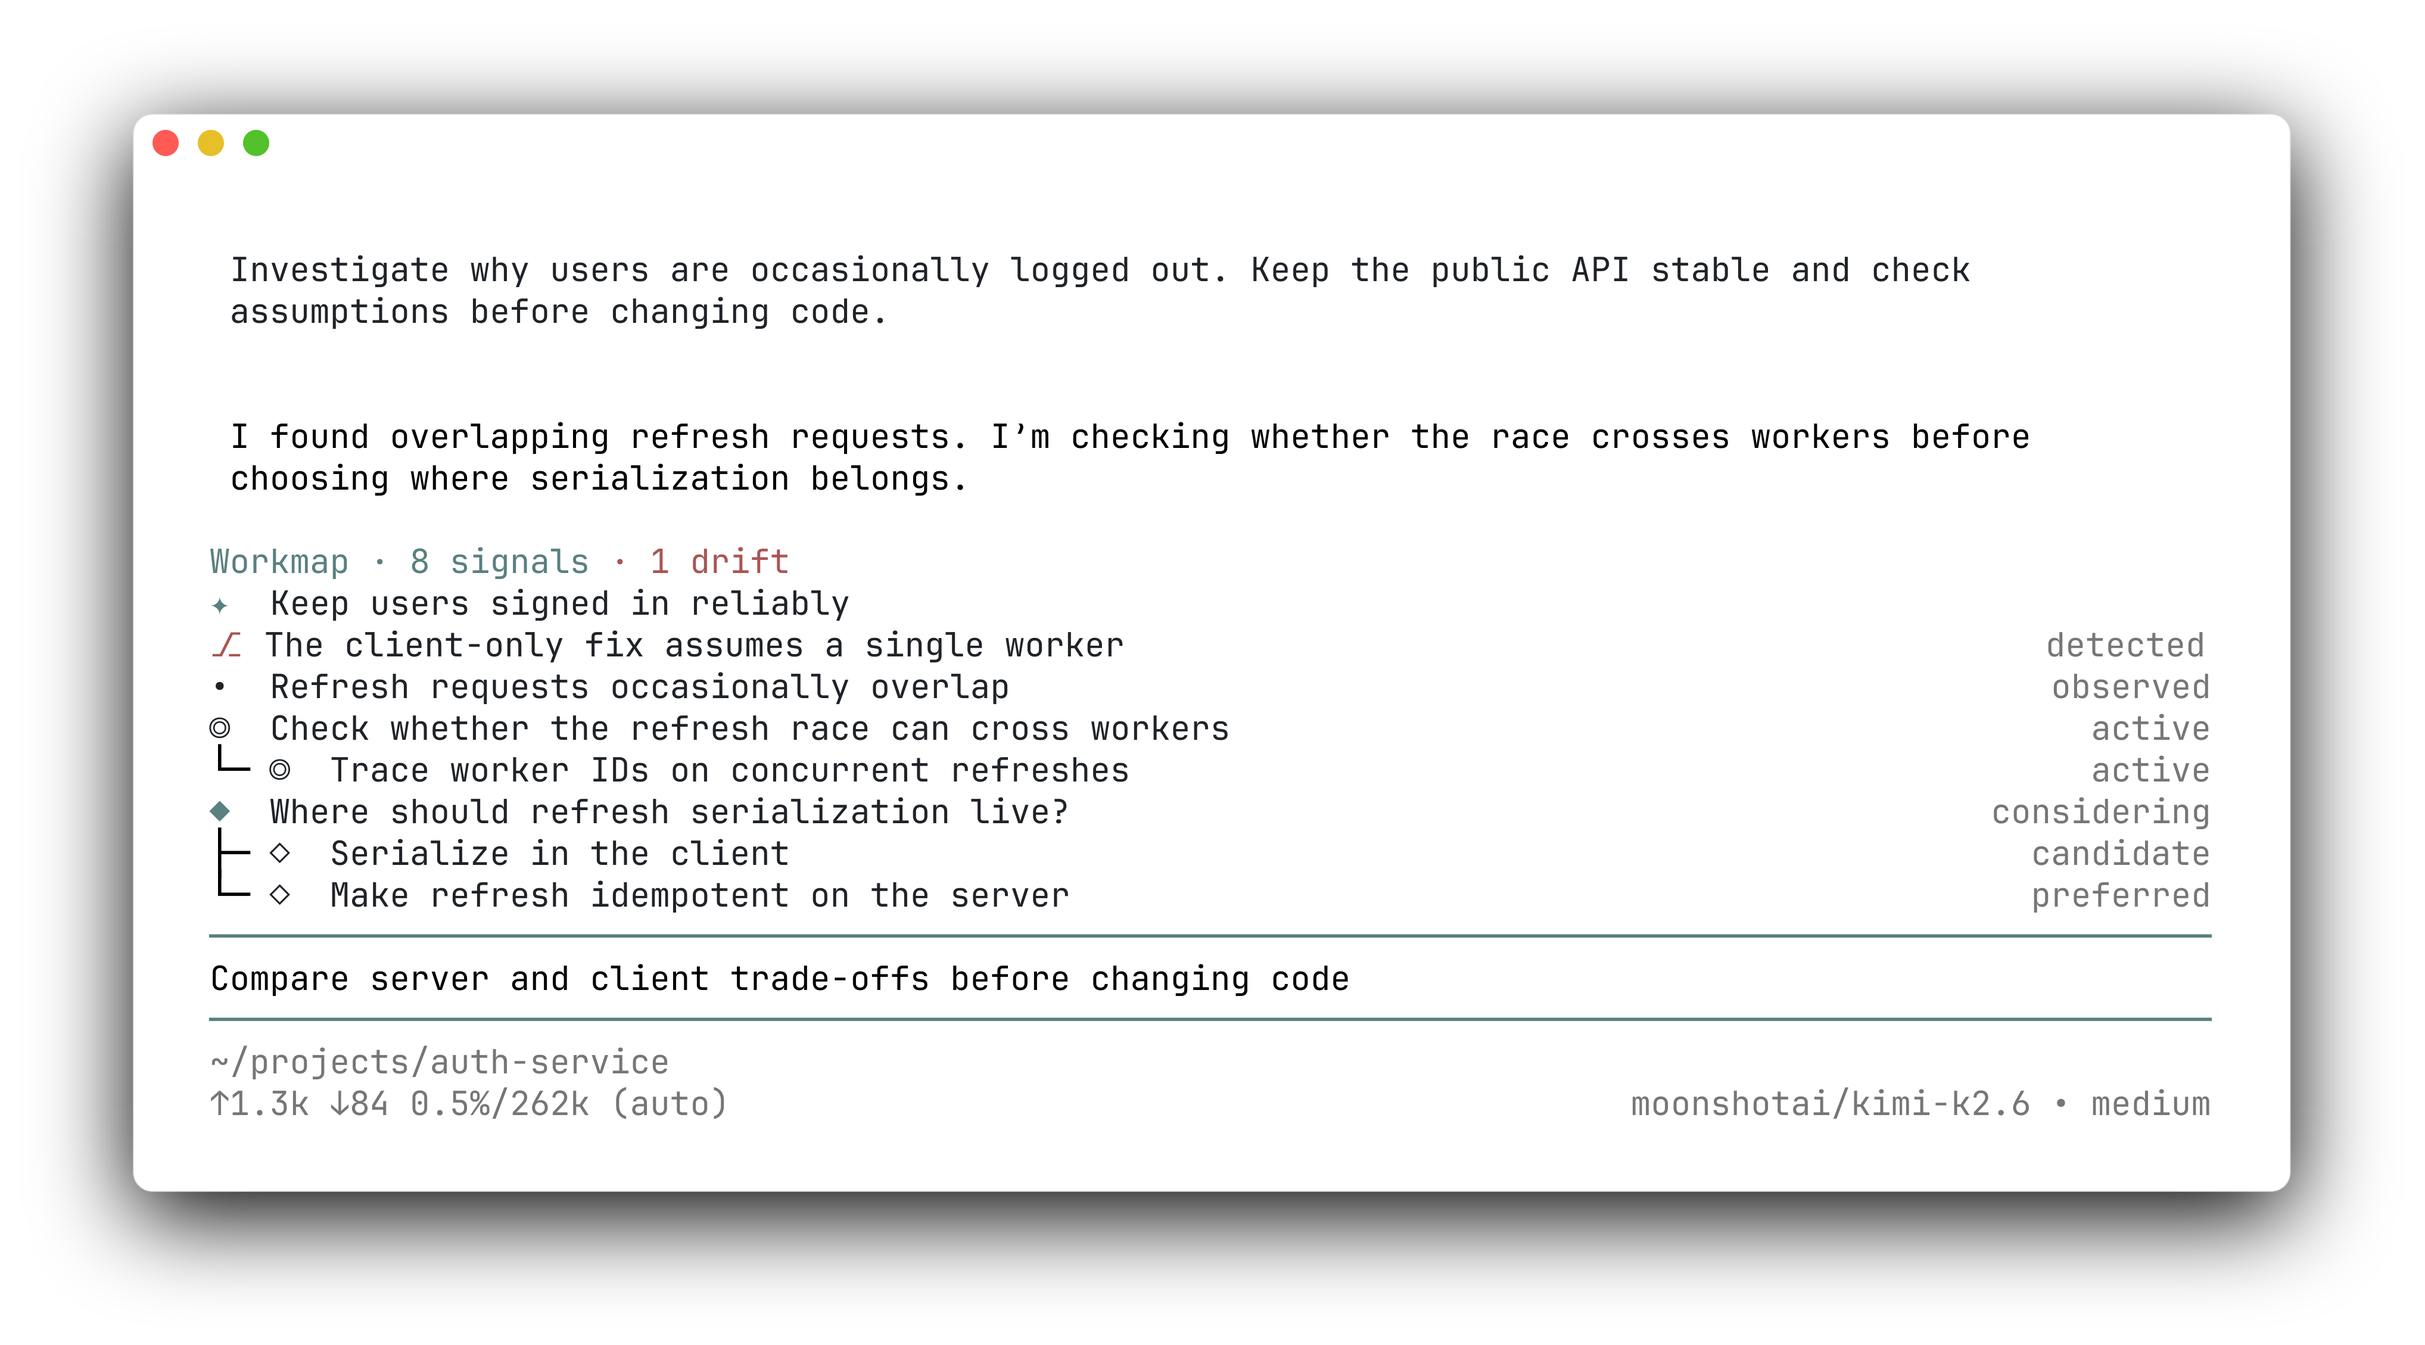
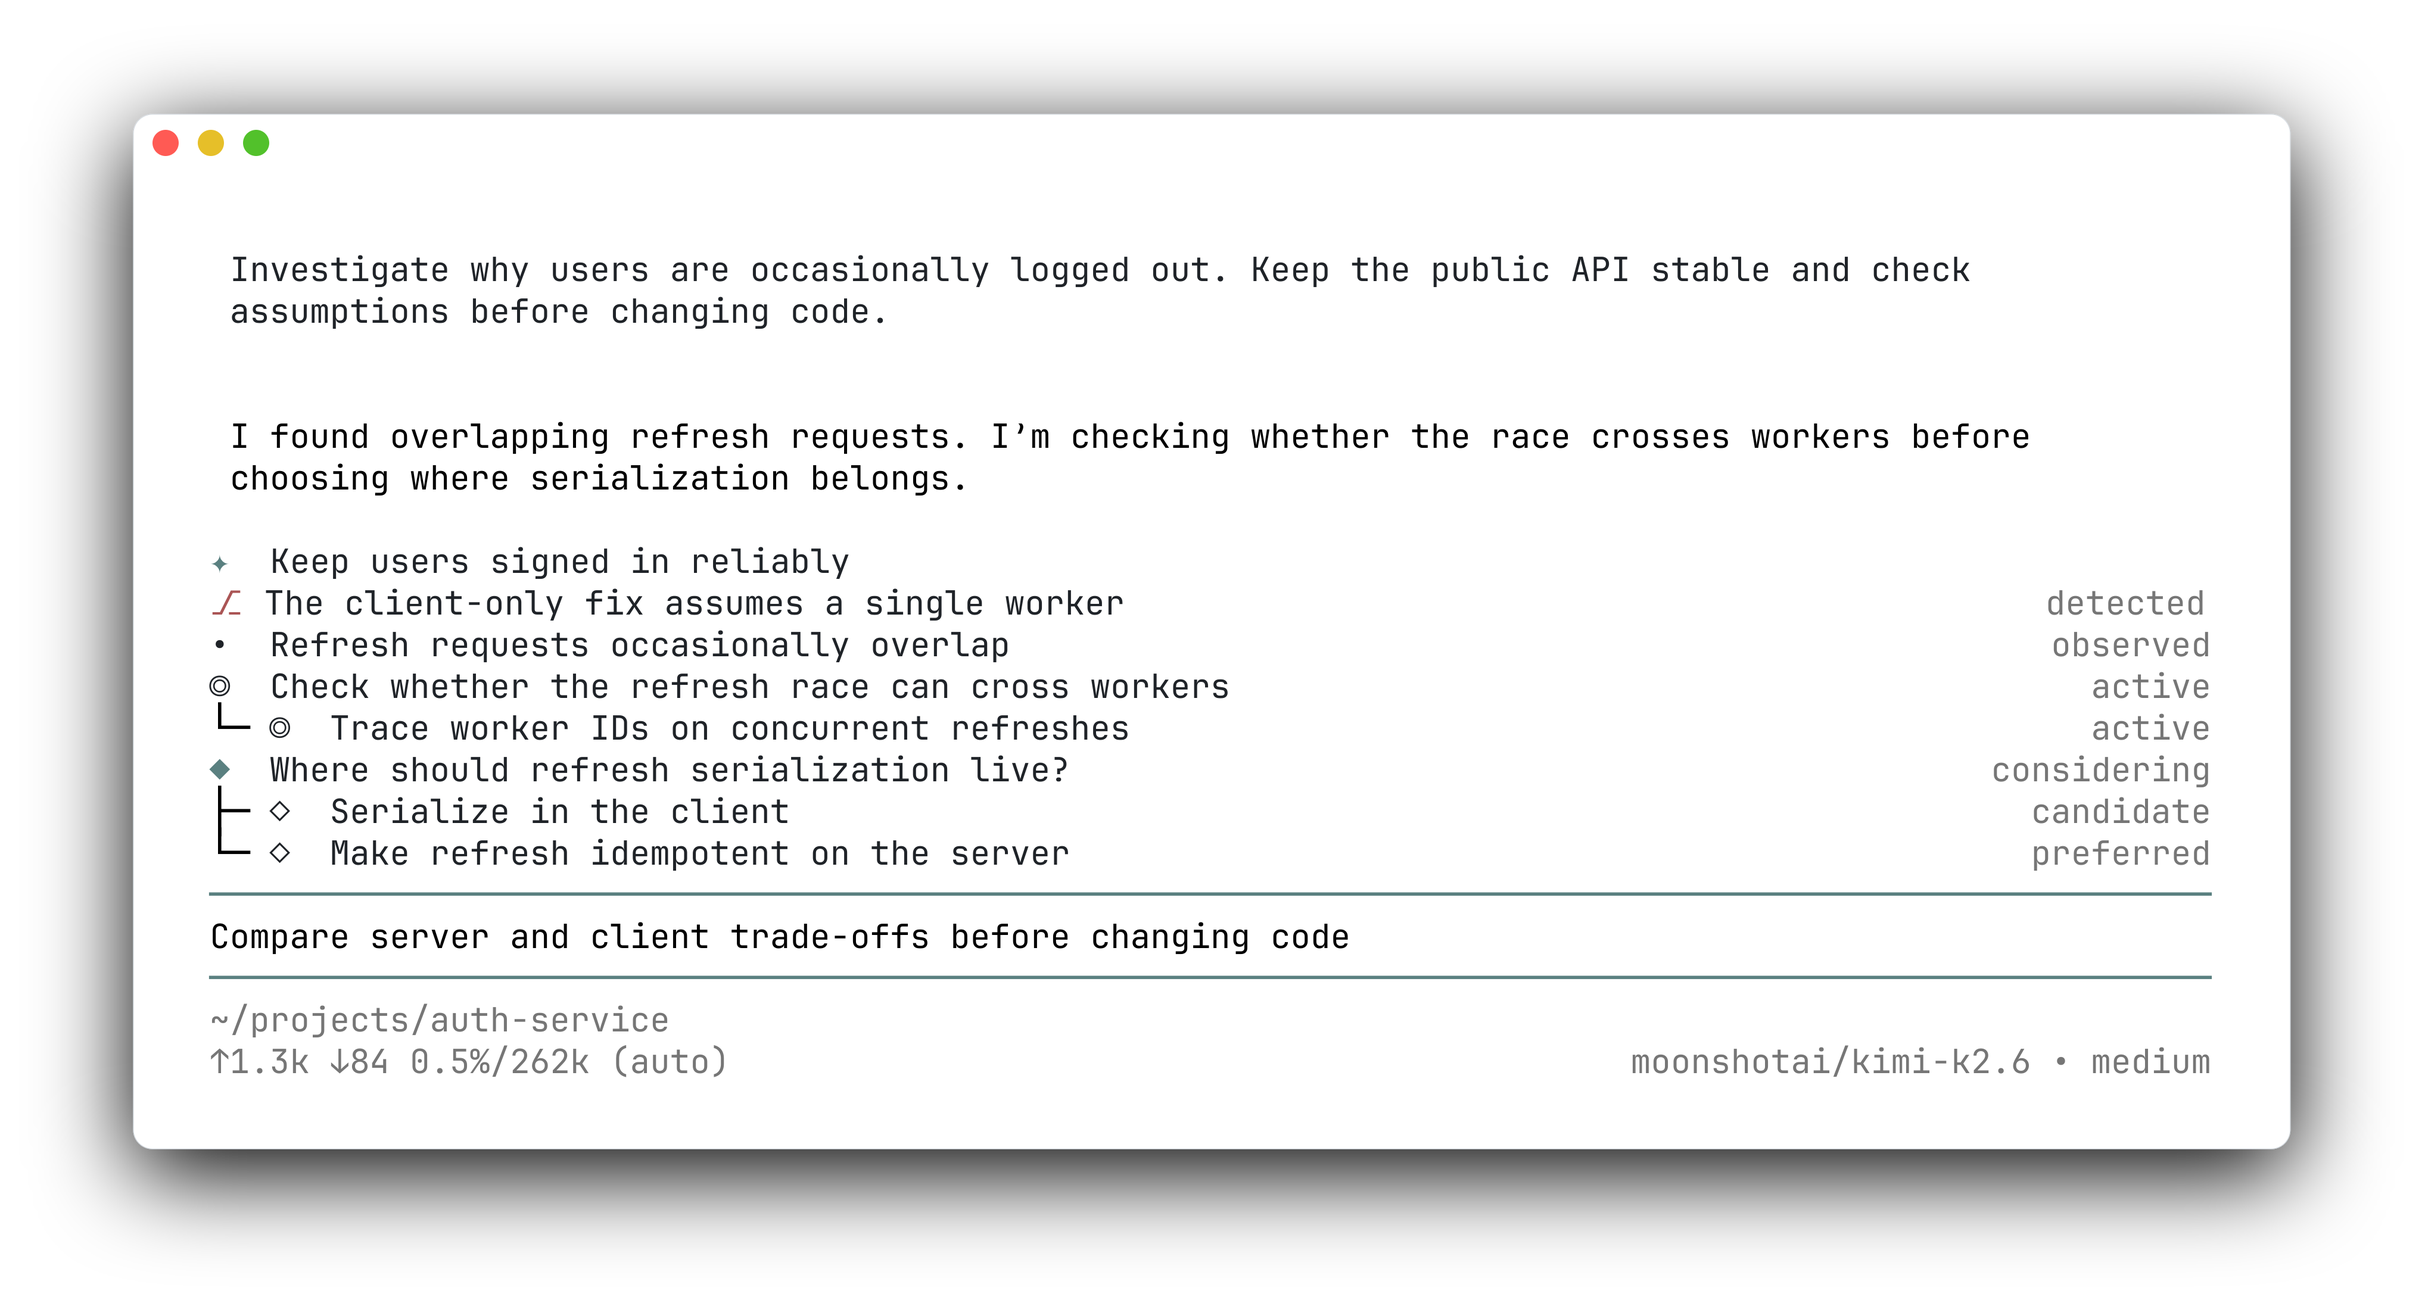
Record the activity, terminology and option decisions (ADR 0018-0020)
Syncs README, docs/ui.md, docs/concept.md, docs/open-questions.md and AGENTS.md, and adds the pre-change corpus baseline (restate density, rejected writes, label drift) as the comparison point for the new guidelines.

diff --git a/AGENTS.md b/AGENTS.md
@@ -41,15 +41,15 @@ Keep session semantics in `src/state.ts`, presentation in `src/widget.ts`, and P
 - **Workmap** — The Agent's concise, user-visible declaration of its current operational mental model for one Pi session.
 - **Mental model** — Each party's internal representation of the work. The gap between the user's and the Agent's is the problem; mental models are not directly shareable.
 - **Shared working model** — Provisional common ground created when the user can inspect and correct the Agent's declared workmap.
-- **Signal** — One typed workmap node that materially helps the user understand or correct the Agent's direction.
+- **Signal** — One typed workmap node that materially helps the user understand or correct the Agent's direction; the goal is separate from the signals.
 - **Goal** — The Agent's current reading of what the user ultimately wants from this session; the anchor every other signal is measured against. A corrected goal is a reward, so declare it early even at low confidence. It names the destination, never the route (routes are Decisions). Written through `set_goal` and stable across `restate` declarations. Update it only when the reading of the user's intent changes or deepens — not when the work phase shifts; phase changes surface through active Tasks. `long-term` optionally marks a standing project-level direction.
-- **Understanding** — A fact, synthesis, inference, or hypothesis the Agent currently uses. Mark unverified premises explicitly as `assumed` rather than stating them as fact.
+- **Understanding** — A fact, synthesis, inference, or hypothesis the Agent currently uses. An unlabeled understanding is the Agent's current, unverified reading; `confirmed` marks what evidence has settled and `ruled out` what evidence has killed, so a dead suspicion stays visible instead of disappearing.
 - **Decision** — A choice being deliberated or a commitment already made. Title it as a question while deliberating; once decided, append the conclusion to the title ("…? → conclusion") rather than rewriting it.
-- **Option** — A considered alternative for a Decision. A tentative answer to an open question is an Understanding with label `assumed`, not an Option.
-- **Task** — An action the Agent declares it intends, is doing, or has done; a `done` title records side effects (what changed, what ran), serving as the map's recent behavior ledger. One level of children expresses supporting structure only, never execution tracking (dependencies, progress rollups, or completion archives). Factual questions get no node type: investigate directly, or ask the user in conversation when only they can answer.
+- **Option** — A considered alternative for a Decision. A tentative answer to an open question is an Understanding, not an Option. An option is only legal beneath its decision: the root schema rejects the type (ADR 0020).
+- **Task** — An action the Agent declares it intends or is doing. A finished action is dropped rather than archived; a side effect that still affects later judgment is rewritten as an Understanding. One level of children expresses supporting structure only, never execution tracking (dependencies, progress rollups, or completion archives). Factual questions get no node type: investigate directly, or ask the user in conversation when only they can answer.
 - **Drift** — A detected mismatch between the Agent's direction and user intent or the declared workmap; rendered directly below the Goal.
 
-Labels are type-scoped; the recommended vocabulary lives in `src/node-types.ts` (goal: unlabeled is the current focus, `long-term` optionally marks a standing direction; decision: considering/chosen; understanding: confirmed/assumed; task: pending/active/done). The map is capped at 10 signals including goal and children, with one level of children. Every write and restore validates the complete state; over-capacity updates are rejected whole (ADR 0017).
+Labels are type-scoped; the recommended vocabulary lives in `src/node-types.ts` (goal: unlabeled is the current focus, `long-term` optionally marks a standing direction; decision: considering/chosen; understanding: confirmed/ruled out; task: pending/active). The map is capped at 10 nodes including the goal and children, with one level of children. Every write and restore validates the complete state; over-capacity updates are rejected whole (ADR 0017), as is an option at the root (ADR 0020).
 
 ## Policies & Mandatory Rules
 

diff --git a/docs/adr/0018-activity-scoped-guidelines.md b/docs/adr/0018-activity-scoped-guidelines.md
@@ -1,0 +1,24 @@
+# ADR 0018: guidelines 按 activity 切分
+
+- Status: Accepted（修订 [ADR 0017](0017-set-goal-restate.md) 的 guidelines 分配与词表；取代 [ADR 0015](0015-full-rewrite-set-add-drift-two-layer.md) 的 decision 1 与 7）
+- Date: 2026-09-17
+
+## Context
+
+- **per-prompt MUST 只买到触碰频率。** v7 语料 325 次 `restate` 里工具结果报 no-change 的只有 2 次，说明重写几乎总有改动——但改动集中在少数行：一场 156 次写入的 session 中，最顽固的一条 task 存活 101 次、一条已定的 decision 存活 57 次。频率也不稳：750 个 prompt 里只有 36% 出现过 restate。ADR 0015 假定"全量重写自然带来 re-examination"，该假定被证伪。
+- **type 条与 schema 重复承载。** 类型语义、标签词表、标题惯例已在 `src/node-types.ts` 的 literal 与字段描述里，且随 tool schema 常驻上下文。
+- **调研期没有 update 触发。** 唯一的强时序锚在 prompt 边界，turn 内的新发现与新怀疑没有上板义务。
+
+## Decision
+
+1. **guidelines 由 type 切分改为 activity**：`restate` 只留两条，均不带 MUST——`While investigating: …`（发现写成 understanding；领先怀疑出现、变化或被排除时先上板再继续 probe）与 `While weighing options: …`（选项摆成 decision + option，不要默默拍板）。
+2. **删除 per-prompt MUST**，掉旧义务移入 `set` 的参数描述（"restate what still matters and drop the rest"）。`set_goal` 与 `add_drift` 的 MUST 保留。
+3. **类型语义与标题惯例搬回 schema**；task 去掉 `done`（结束即删，值得留下的副作用改写成 understanding），understanding 去掉 `assumed`、增加 `ruled out`——未标注的 understanding 即当前未验证的看法，留下的两个值正好是被证据改写的状态。
+4. **删除三个 `promptSnippet`**：Pi 只列出提供 snippet 的工具，本次接受"工具仅靠 description 与 schema 出现在 API tools 中"。
+5. **context-facing 文本去重、去布局词**：工具 description 不再复述参数契约；删掉 "hoisted below the goal row"、"restrained right-side"——模型操作不了排版。
+
+## Consequences
+
+- `restate` 的 guidelines 由 4 条降到 2 条；陈旧信号的清理改由 `set` 的替换语义承担（观察项见 [open-questions](../open-questions.md)）。
+- 旧快照里的 `done` / `assumed` 不受影响（label 是自由字符串），下一次重写自然消失。
+- `test/agent-surface.test.ts` 的快照覆盖本次全部文本变更。

diff --git a/docs/adr/0020-option-belongs-to-decision.md b/docs/adr/0020-option-belongs-to-decision.md
@@ -1,0 +1,25 @@
+# ADR 0020: option 只做 decision 的子节点
+
+- Status: Accepted
+- Date: 2026-09-17
+
+## Context
+
+`option` 的语义是某个 decision 下的备选，但 schema 一直允许它在任何位置。措辞层面的"option 归位"到 ADR 0014/0017 才写清：旧语料出现 128 行 root option（123 行来自同一版 schema 的两场 session），v7 的 357 份快照里为 0——措辞生效了，schema 却仍在宣称它合法。
+
+## Decision
+
+1. **拆分 type union**：root 只接受 understanding / decision / task / drift；child 仍接受五种。
+2. **父节点规则由校验兜**：非 decision 的 root 下出现 option 时整次拒绝（`Options only belong under a decision — …`）。用 schema 表达需要在每种 root 上重复一份 child union，代价是每个请求多约 1 KB。
+3. **`literal()` 泛型化**：每个 literal 保留自己的名字类型，使 `WorkmapRoot` 的静态类型同样不含 `option`，而不是只在运行时被拒。类型描述集中为一份 `TYPE_DESCRIPTIONS`，父/子层措辞不会漂移。
+4. **拒绝文案点明规则**：`…check types, titles, labels, depth, and that an option sits under its decision`。
+5. **不做恢复期迁移**：旧快照里的 root option 校验失败后按既有规则回退到上一份有效状态（实测 v7 无此情况）。
+
+## Rationale
+
+判据是 schema 是模型学习域模型的通道：root union 里列出 `option` 等于错误陈述域，而旧语料正因此产生了 128 次误用。措辞能改行为，schema 与校验定义合法空间，且零 token 成本。这与 ADR 0011 不冲突——该失败已被观察到，只是被后来的措辞掩盖。
+
+## Consequences
+
+- `test/agent-surface.test.ts` 快照更新；`test/state.test.ts` 覆盖两种误写：root option、挂在 task 下的 option。
+- root 与 child 的重叠从 5 个 type literal 降到 4 个。

diff --git a/README.md b/README.md
@@ -19,20 +19,19 @@ pi install .
 Once the Agent starts working, a workmap stays pinned above the editor:
 
 ```text
-Workmap · 8 signals
 ✦ Keep users signed in reliably
 ⎇ The client-only fix assumes a single worker                  detected
 • Refresh requests occasionally overlap                       observed
+◎ Check whether the refresh race can cross workers              active
+└─ ◎ Trace worker IDs on concurrent refreshes                   active
 ◆ Where should refresh serialization live?                considering
 ├─ ◇ Serialize in the client                                  candidate
-├─ ◇ Make refresh idempotent on the server
-└─ ◎ Compare approaches                                       active
-◎ Reproduce the double logout (rewrote 2 fixtures)             done
+└─ ◇ Make refresh idempotent on the server                    preferred
 ```
 
-- The Agent declares the goal with `set_goal` and restates the signals with `restate` before acting on each prompt. A mid-task course change is reported on the spot via `add_drift`, directly below the goal.
+- The Agent declares the goal with `set_goal` and keeps the signals current with `restate` — a new finding or suspicion goes up before the Agent acts on it. A mid-task course change is reported on the spot via `add_drift`, directly below the goal.
 - Something looks off? Say so in conversation — the Agent updates the map and its course.
-- The goal stays stable across signal rewrites. The map holds at most 10 signals, including the goal and children.
+- The goal stays stable across signal rewrites. The map holds at most 10 nodes, including the goal and children.
 
 ## Session behavior
 

diff --git a/docs/open-questions.md b/docs/open-questions.md
@@ -4,6 +4,18 @@
 
 ## 仍需通过使用验证
 
+### Corpus baseline（改动前的 v7 语料）
+
+本地 15 场 v7 session 的聚合量，作为后续对比的基线：750 个 prompt 中 36% 出现过 `restate`、7% 出现 ≥2 次（最多 4 次）；拒绝写入 36 条（legacy heading 34、容量 2、schema 违规 0）；label 漂移集中在 goal（92 次带 label，24 次不在词表内，其中 22 次是把描述里的 `standing` 当成了取值）。
+
+- activity 条是否真的让 turn 内动起来：重测 ≥2 次的比例（基线 7%）。
+- 容量上限是否太紧：暂无证据（容量拒绝仅 2 次）。
+- 描述里出现的词会被当成取值建议——候选值只给一个例子。
+
+### Stale signals（陈旧信号）
+
+真实 session 里重写几乎每次都有改动（v7 语料 325 次 `restate` 中，工具结果报 no-change 的只有 2 次），但改动集中在少数行：一场 156 次写入的实现型 session 中，最顽固的一条 task 存活 101 次、一条已定的 decision 存活 57 次、多个已完成行存活 17–21 次。删掉 per-prompt MUST 与 `done` 之后需要观察：陈旧行是否更久不被清理（重写频率下降）、`ruled out` 是否真的被用来收口被排除的分支、以及实施期 map 是否退化成只剩 goal。
+
 ### Rewrite fidelity（重写保真）
 
 全量重写给了模型每轮静默丢信号的机会：改写中缩短 title、丢掉 child、或整棵丢弃仍然相关的树。需要观察：被丢的信号多久被用户从 widget 中发现；重写质量是否随 session 变长衰减；重写是否沦为机械复读（内容长期不变也不重审 signals）。

diff --git a/docs/adr/0019-signal-node-terminology.md b/docs/adr/0019-signal-node-terminology.md
@@ -1,0 +1,25 @@
+# ADR 0019: signal 与 node 的口径统一，并去掉 widget header
+
+- Status: Accepted（取代 [ADR 0015](0015-full-rewrite-set-add-drift-two-layer.md) 的高度契约"header + ≤10 行"）
+- Date: 2026-09-17
+
+## Context
+
+"signal"长期两义：结构与 [AGENTS.md](../../AGENTS.md) 的 Goal 条目把它排除在外（`WorkmapSchema = { goal?, nodes }`，goal 不在五个 type 里），而容量报错与 UI 文案把它计入。`restate` 只接收 `nodes`，需要一个能整批指代该集合的词。
+
+## Decision
+
+1. **signal = 五种 typed node，不含 goal**；计数与容量统一用 node（`Updated workmap · N nodes`、容量报错改为 "10 nodes"）。
+2. **删除 widget header**（原 `Workmap · N nodes · M drift`）：widget 只有一棵完整树，第一行就是 goal 行。
+3. **drift 的显著性改由行承载**（紧随 goal + error 色）；`docs/ui.md` 原"header 的 drift 计数"规则随之改写。
+
+## Rationale
+
+- signal 必须能整批指代 `restate` 写入的集合；"一行"的中性词本来就有——node。选另一口径则每处都要带"除 goal 之外"的限定。
+- header 是被扫过几十次的表面，信息几乎不变，属于 `docs/ui.md` 自己反对的重复阅读成本。
+
+## Consequences
+
+- 高度契约：`header + ≤10 行` → `≤10 行`。
+- 同步更新 widget 快照、README 截图与示例、`docs/ui.md`、`test/visual/capture.ts`（改用 goal 标题作定位标记）。
+- 容量数字不再常驻屏幕；超限仍由写入拒绝与工具结果体现。
